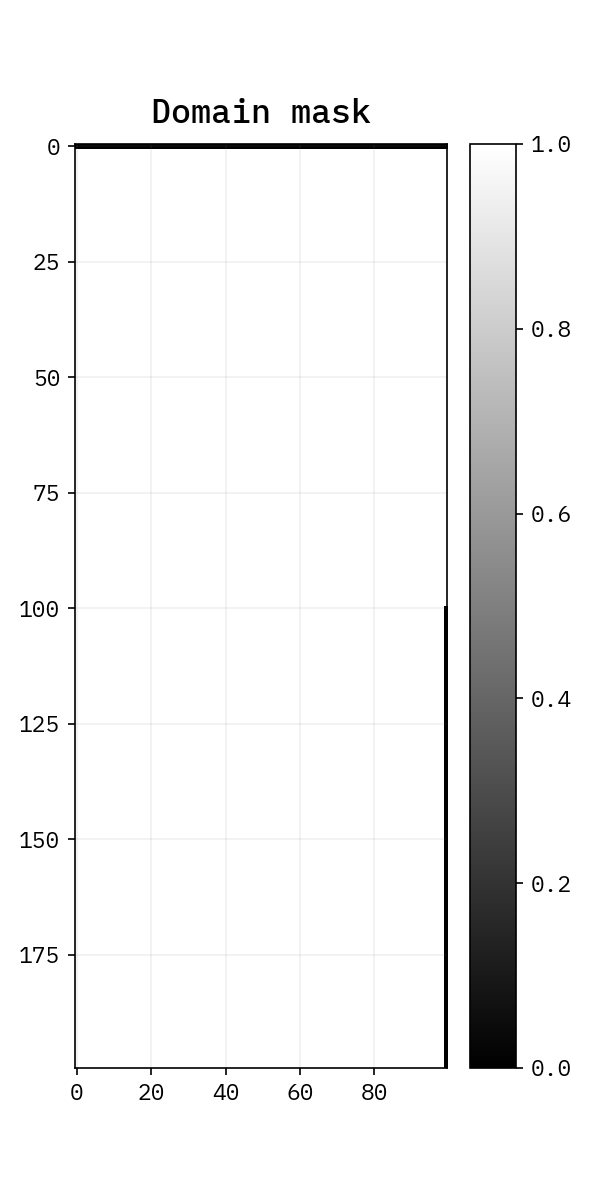
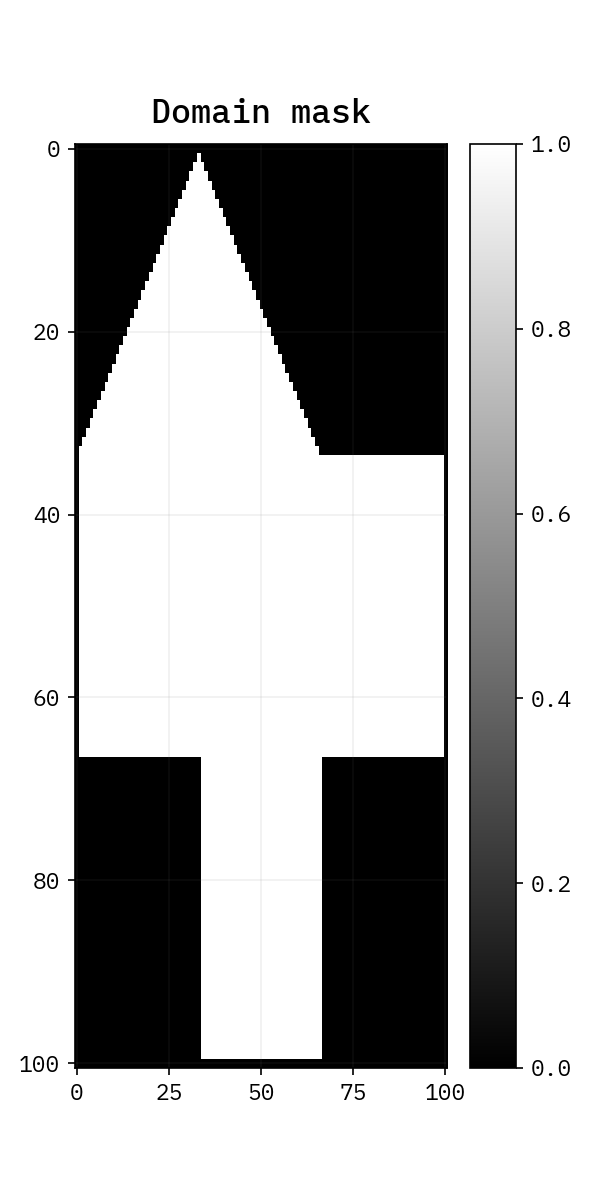
feat: :sparkles: add scan scripts

diff --git a/Code/square-a-scan.py b/Code/square-a-scan.py
@@ -1,0 +1,82 @@
+"""
+Sweep over the parameter alpha for the omega ansatz:
+    \omega(alpha) = 2/(1 + (pi*alpha/N))
+"""
+import numpy as np
+from src import *
+from rich import print
+from mpi4py import MPI
+from time import time
+import h5py as h5
+import hdf5plugin
+
+N = 404
+a0 = 0.1
+a1 = N / np.pi
+num_points = 3
+pad = 1
+
+if __name__ == "__main__":
+    ts = time()
+    # MPI setup
+    comm = MPI.COMM_WORLD
+    rank = comm.Get_rank()
+    size = comm.Get_size()
+
+    fn = f"./Data/square_scan_a{a0}_g{num_points}_size{size}_N{N}.h5"
+
+    # Set up scan parameters
+    PLACEHOLDER = 1.0
+    alpha = np.linspace(a0, a1, num_points)
+    omega_ansatz = lambda alpha, N: 2 / (1 + (np.pi * alpha / N))
+
+    if rank == 0:
+        print(f"Running with {size} ranks.")
+        mask = np.ones((N, N), dtype=bool)
+        mask[:pad, :] = False
+        mask[-pad:, :] = False
+        mask[:, :pad] = False
+        mask[:, -pad:] = False
+        
+        lattice = SORLattice(comm=comm, domain_mask=mask, dx=1/N, rhs_value=-1.0, omega=PLACEHOLDER, chunks=int(np.sqrt(size)), verbose=True)
+        lattice.MAX_ITER = 100000
+
+    for i, a in enumerate(alpha):
+        if rank == 0:
+            print(f"Running alpha={a:.3f}, omega={omega_ansatz(a, N):.3f} ({i+1}/{len(alpha)})")
+            lattice.reset(omega_ansatz(a, N))
+            params = lattice.scatter()
+        else:
+            params = None
+
+        # Instantiate local chunk on each rank
+        chunk = SORChunk(comm, params, verbose=True)
+        chunk.bar = False
+        chunk.run()
+        chunk.log.info(f"Took {time() - ts:.2f} seconds for alpha={a:.3f}")
+
+        if rank == 0:
+            C = lattice.poiseuille_coeff(chunk.state)
+            print(f"Poiseuille coefficient: {C:.4f}")
+            print(f"Total Time Taken: {time() - ts:.2f} s")
+
+            try:
+                final_state = lattice.state
+            except AttributeError:
+                print(f"[bold red] WARNING: No final state found on rank 0. Skipping HDF5 write for alpha={a:.2f}.[/bold red]")
+
+            # Append results to HDF5
+            with h5.File(fn, "a") as f:
+                group_name = f"alpha_{a:.2f}_{i}"
+                if group_name in f:
+                    del f[group_name]
+
+                group = f.create_group(group_name)
+                group.attrs["alpha"] = a
+                group.attrs["omega"] = omega_ansatz(a, N)
+                group.attrs["poiseuille_coeff"] = C
+                group.attrs["iter"] = chunk.iter
+                group.create_dataset("state", data=chunk.state,
+                                     compression=hdf5plugin.Blosc2("zstd", clevel=3, filters=hdf5plugin.Blosc2.SHUFFLE))
+                group.create_dataset("residuals", data=chunk.residuals,
+                                     compression=hdf5plugin.Blosc2("zstd", clevel=3, filters=hdf5plugin.Blosc2.SHUFFLE))

diff --git a/Code/house-a-scan.py b/Code/house-a-scan.py
@@ -1,0 +1,78 @@
+"""
+Sweep over the parameter alpha for the omega ansatz:
+    \omega(alpha) = 2/(1 + (pi*alpha/N))
+"""
+import numpy as np
+from src import *
+from rich import print
+from mpi4py import MPI
+from time import time
+import h5py as h5
+import hdf5plugin
+
+N = 404
+a0 = 0.1
+a1 = N / np.pi
+num_points = 3
+pad = 1
+
+if __name__ == "__main__":
+    ts = time()
+    # MPI setup
+    comm = MPI.COMM_WORLD
+    rank = comm.Get_rank()
+    size = comm.Get_size()
+
+    fn = f"./Data/house_scan_a{a0}_g{num_points}_size{size}_N{N}.h5"
+
+    # Set up scan parameters
+    PLACEHOLDER = 1.0
+    alpha = np.linspace(a0, a1, num_points)
+    omega_ansatz = lambda alpha, N: 2 / (1 + (np.pi * alpha / N))
+
+    if rank == 0:
+        print(f"Running with {size} ranks.")
+        
+        mask = make_house_mask(N, pad=pad)
+        lattice = SORLattice(comm=comm, domain_mask=mask, dx=1/N, rhs_value=-1.0, omega=PLACEHOLDER, chunks=int(np.sqrt(size)), verbose=True)
+        lattice.MAX_ITER = 100000
+
+    for i, a in enumerate(alpha):
+        if rank == 0:
+            print(f"Running alpha={a:.3f}, omega={omega_ansatz(a, N):.3f} ({i+1}/{len(alpha)})")
+            lattice.reset(omega_ansatz(a, N))
+            params = lattice.scatter()
+        else:
+            params = None
+
+        # Instantiate local chunk on each rank
+        chunk = SORChunk(comm, params, verbose=True)
+        chunk.bar = False
+        chunk.run()
+        chunk.log.info(f"Took {time() - ts:.2f} seconds for alpha={a:.3f}")
+
+        if rank == 0:
+            C = lattice.poiseuille_coeff(chunk.state)
+            print(f"Poiseuille coefficient: {C:.4f}")
+            print(f"Total Time Taken: {time() - ts:.2f} s")
+
+            try:
+                final_state = lattice.state
+            except AttributeError:
+                print(f"[bold red] WARNING: No final state found on rank 0. Skipping HDF5 write for alpha={a:.2f}.[/bold red]")
+
+            # Append results to HDF5
+            with h5.File(fn, "a") as f:
+                group_name = f"alpha_{a:.2f}_{i}"
+                if group_name in f:
+                    del f[group_name]
+
+                group = f.create_group(group_name)
+                group.attrs["alpha"] = a
+                group.attrs["omega"] = omega_ansatz(a, N)
+                group.attrs["poiseuille_coeff"] = C
+                group.attrs["iter"] = chunk.iter
+                group.create_dataset("state", data=chunk.state,
+                                     compression=hdf5plugin.Blosc2("zstd", clevel=3, filters=hdf5plugin.Blosc2.SHUFFLE))
+                group.create_dataset("residuals", data=chunk.residuals,
+                                     compression=hdf5plugin.Blosc2("zstd", clevel=3, filters=hdf5plugin.Blosc2.SHUFFLE))

diff --git a/Code/test2.py b/Code/test2.py
@@ -28,7 +28,7 @@ if __name__ == "__main__":
     R    = 1.0
     H    = 2 * R
     flux = 1.0
-    Nr   = 100
+    Nr   = 101
     Nz   = 200
     dr   = R / (Nr - 1)
     dz   = H / (Nz - 1)
@@ -44,7 +44,8 @@ if __name__ == "__main__":
 }
 
     if rank == 0:
-        mask = make_cylinder_mask(Nr, Nz, bcs)
+        # mask = make_cylinder_mask(Nr, Nz, bcs)
+        mask = make_house_mask(Nr)
         mid = Nz // 2
         plt.figure(figsize=(4, 8))
         plt.imshow(mask, aspect='auto', cmap='gray', origin='upper')
